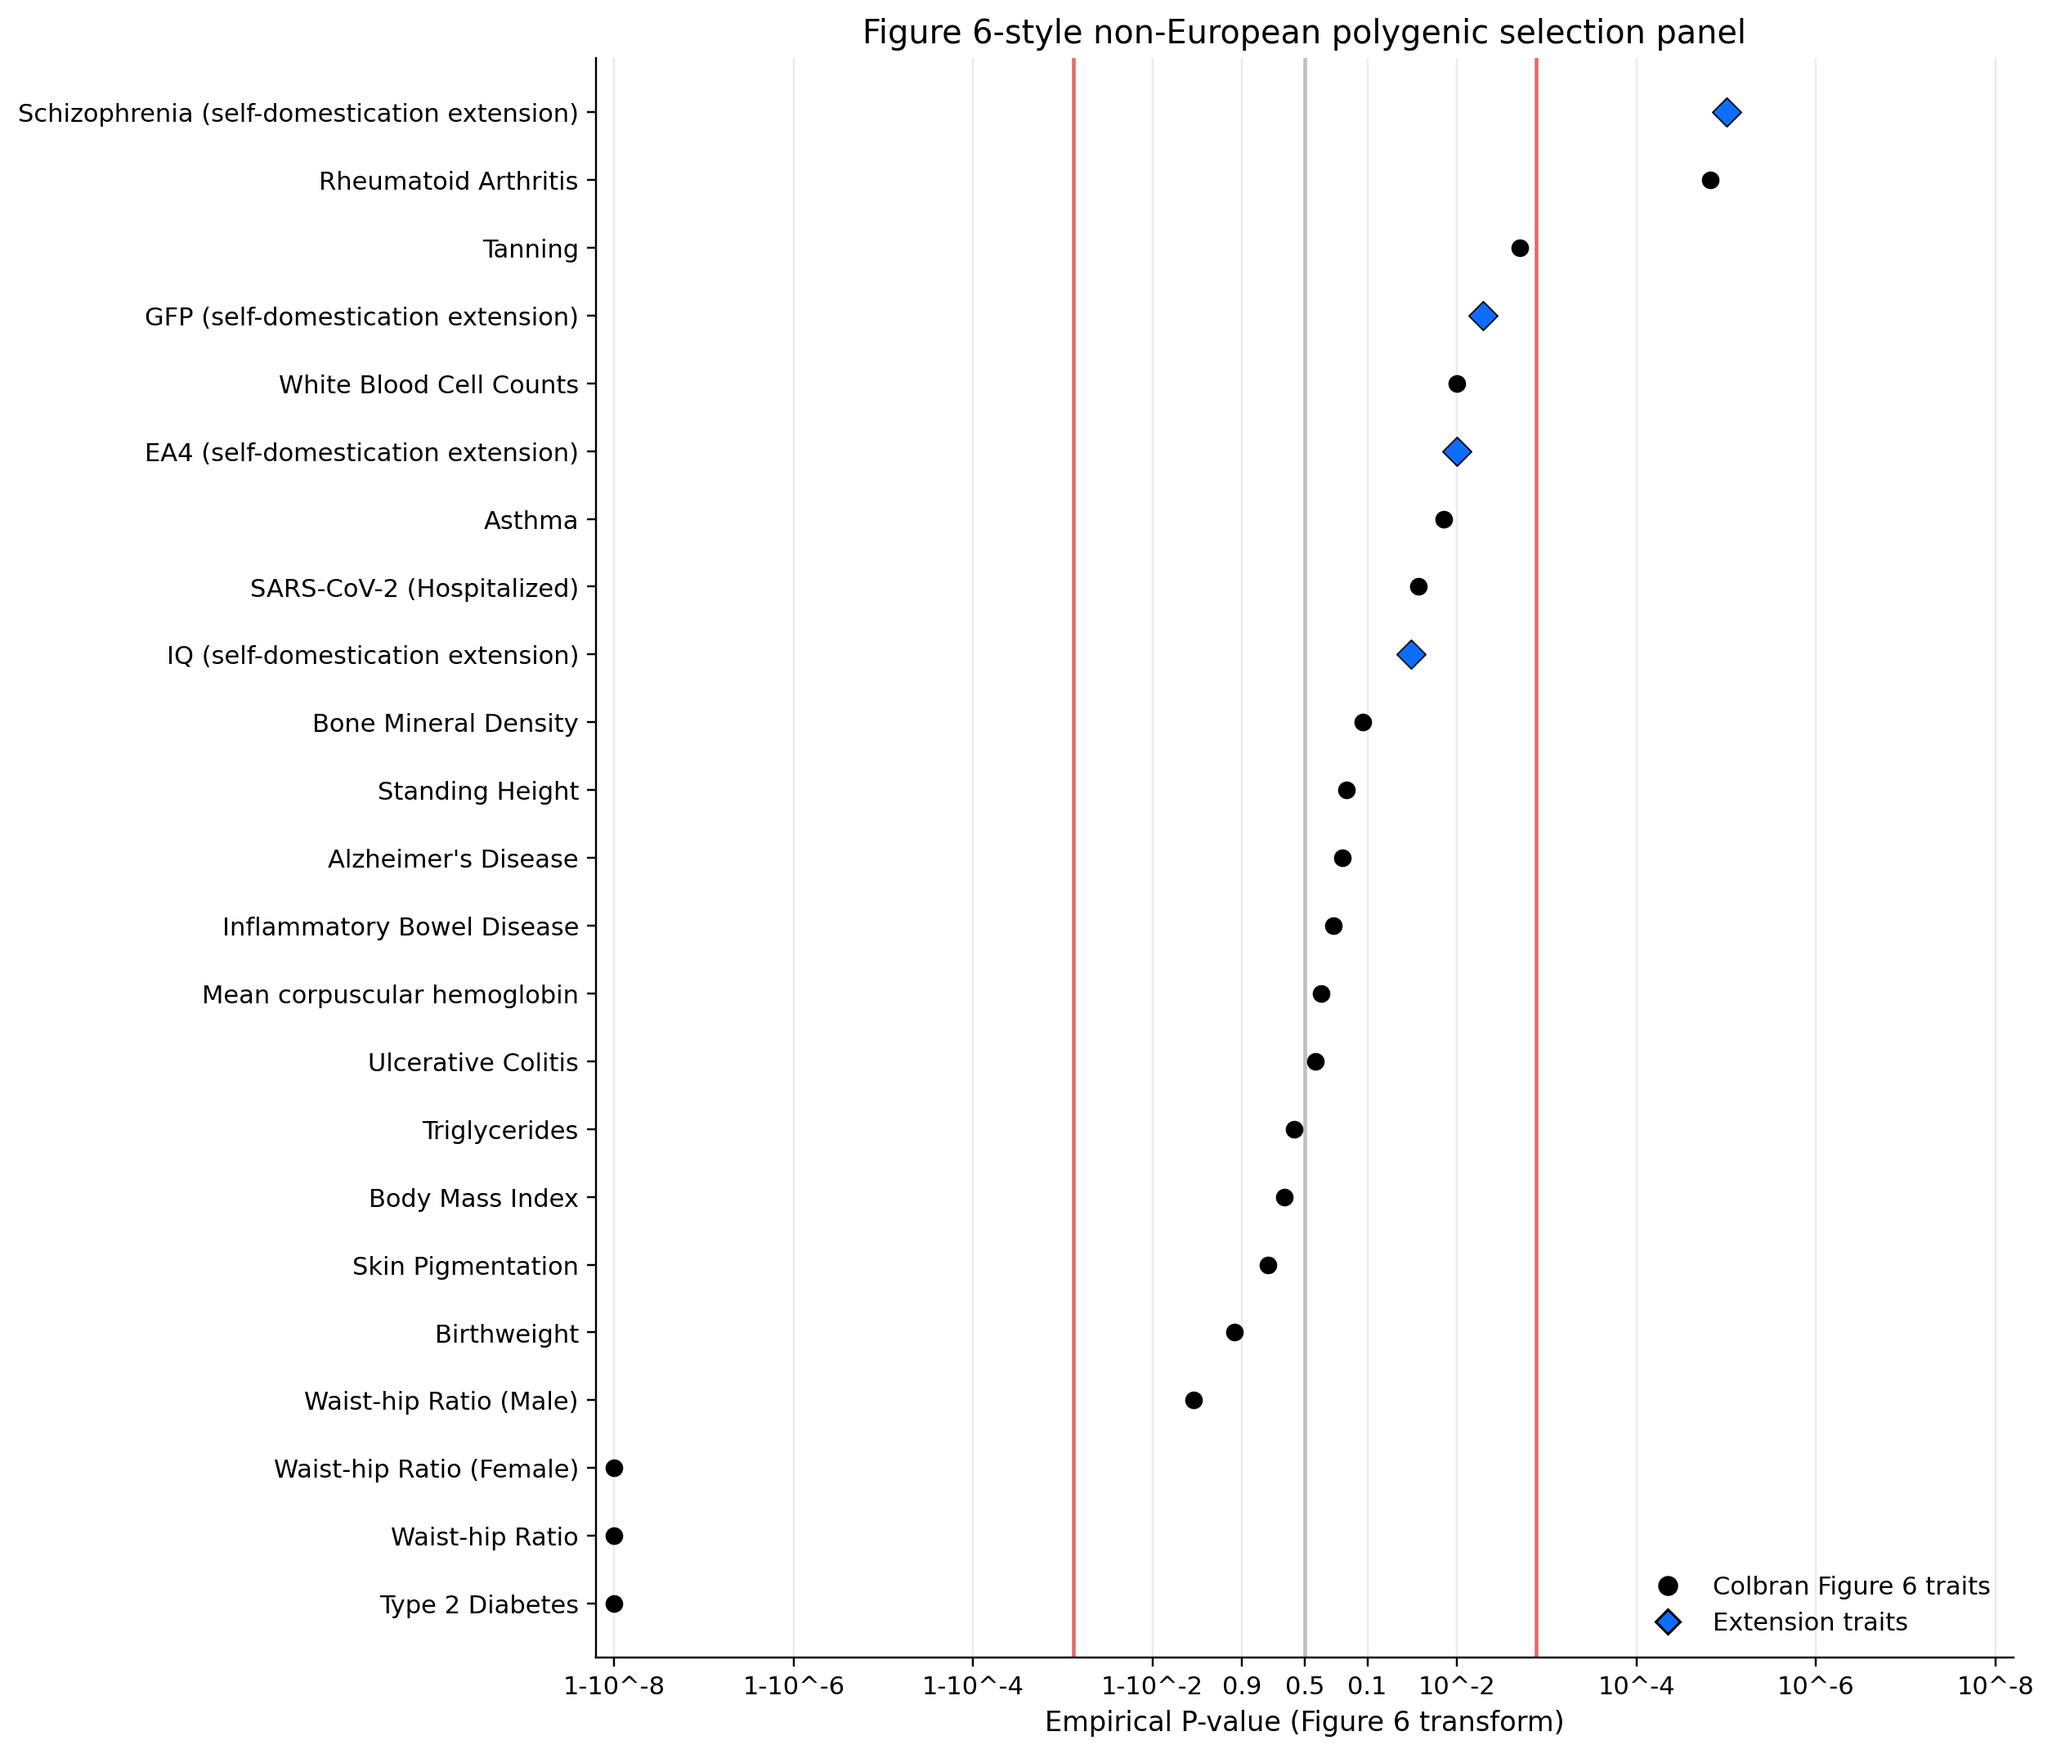
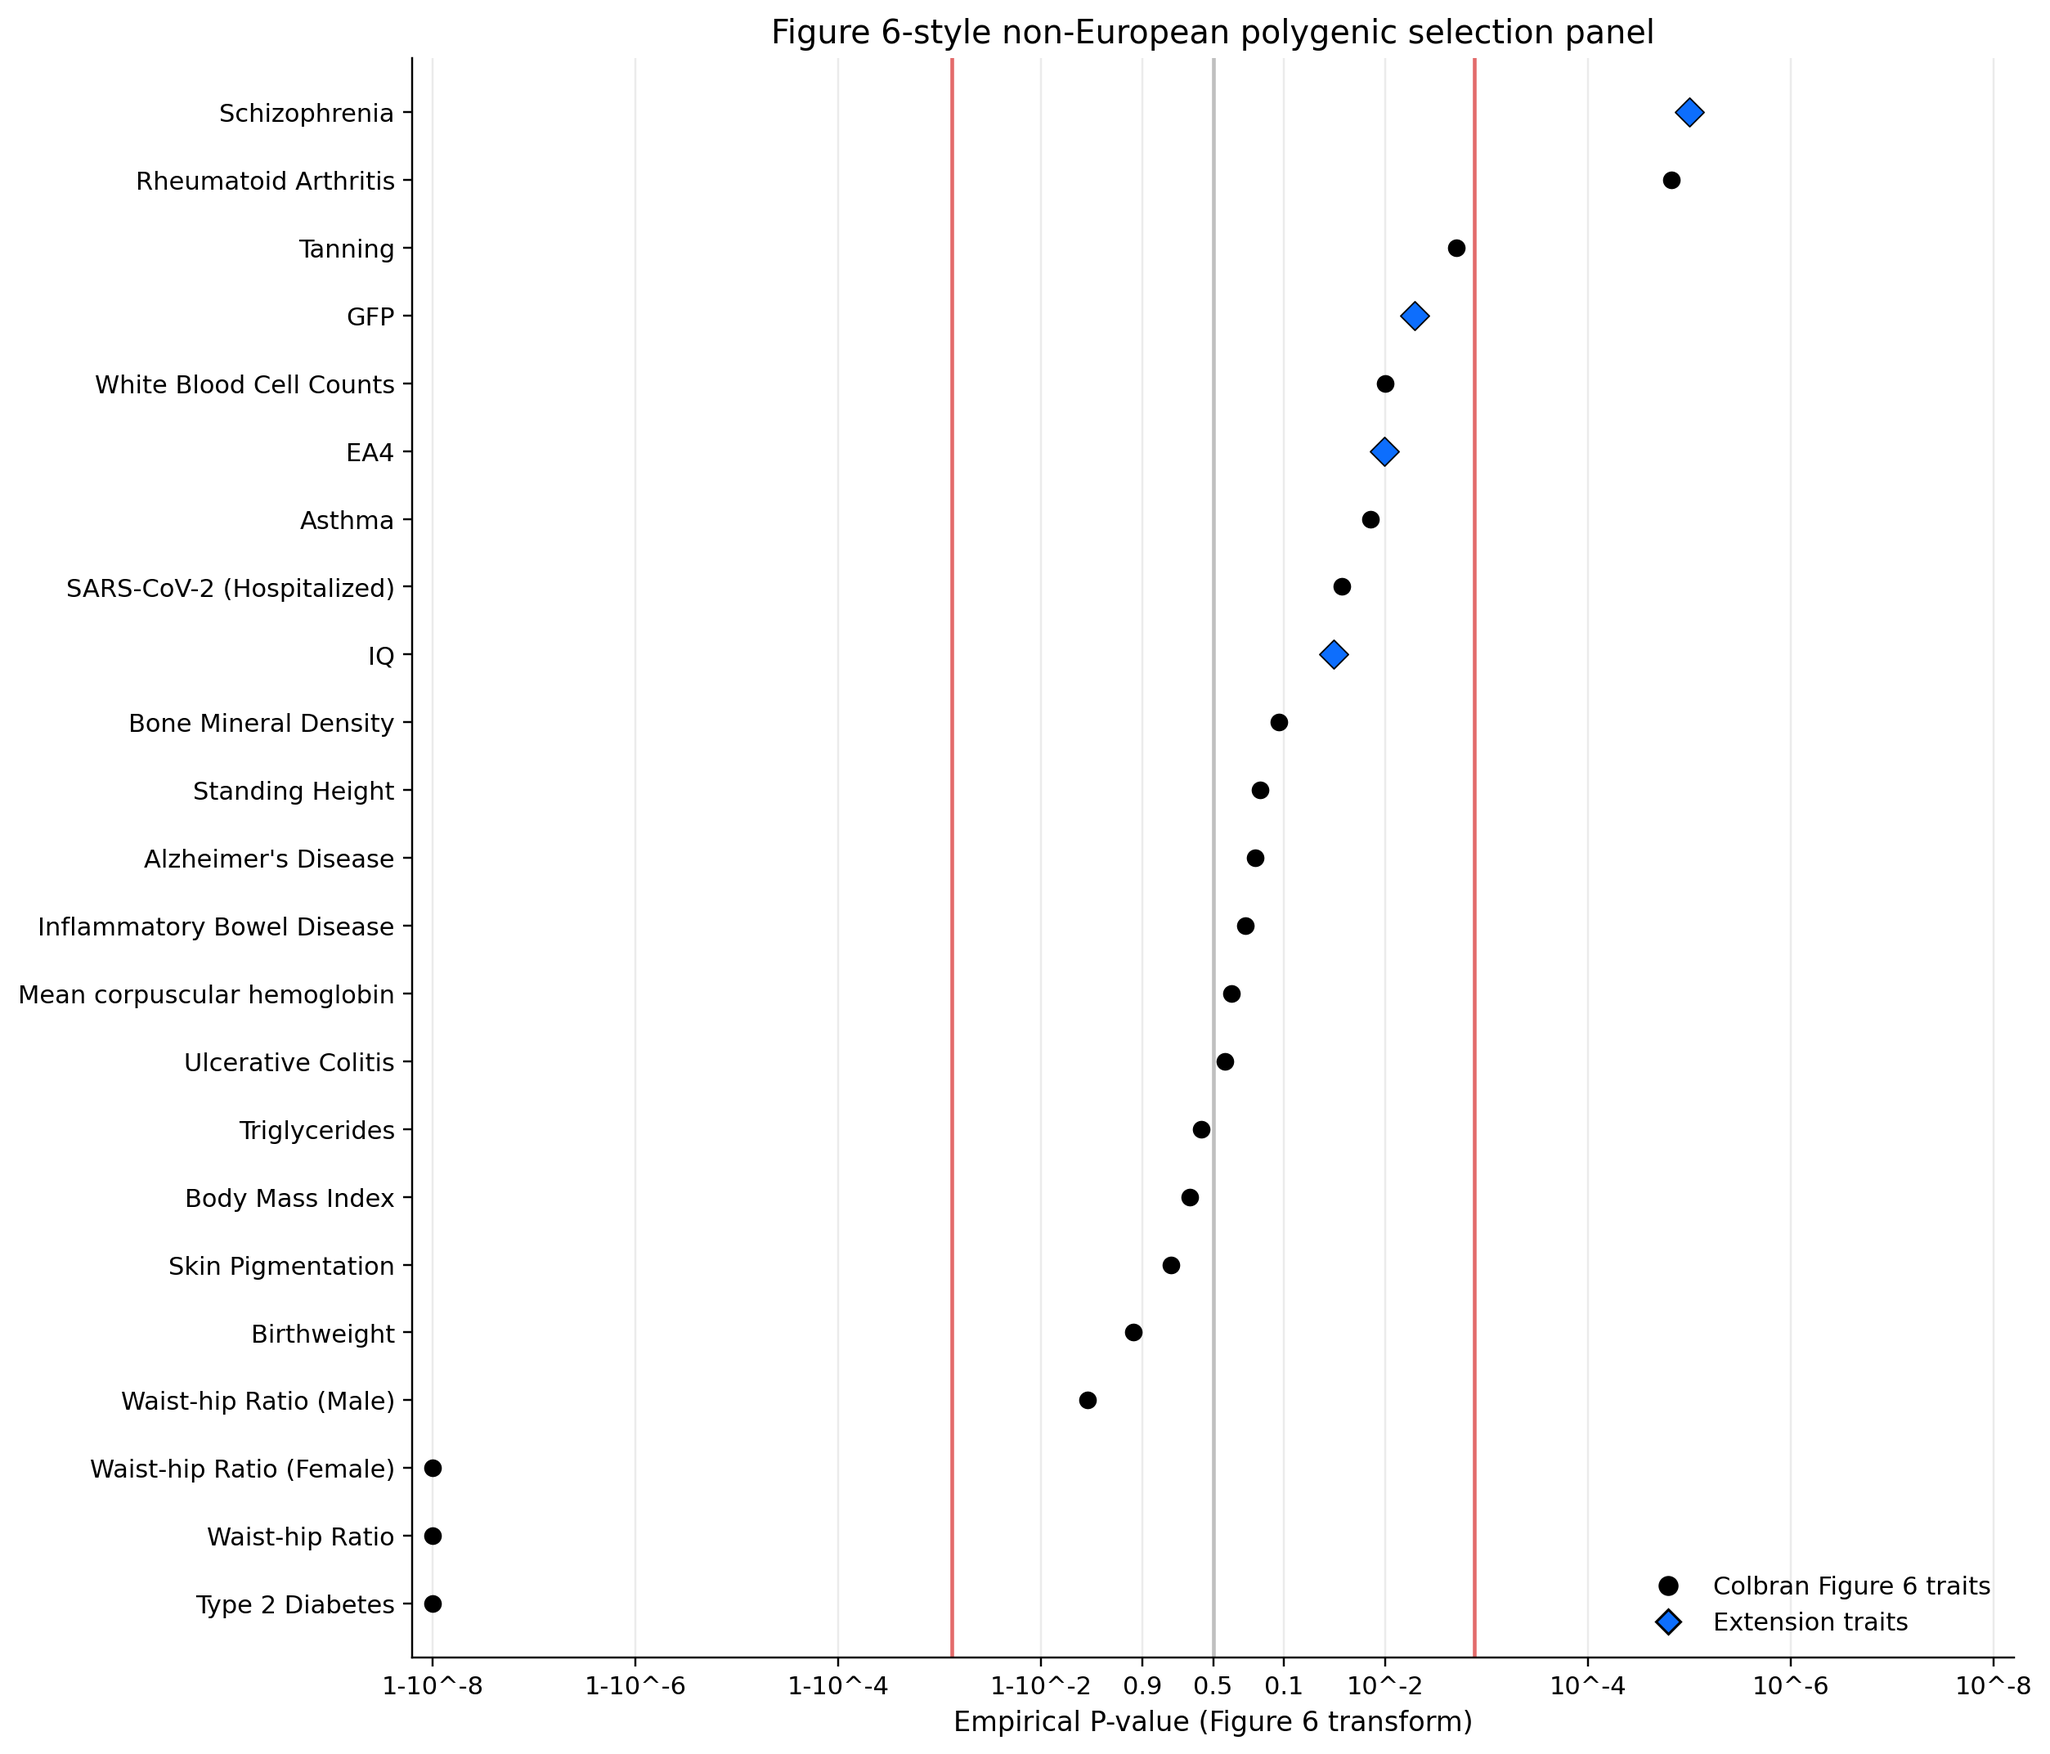
Shorten extension trait labels in figure
Remove the self-domestication parenthetical from the extension trait labels in the Figure 6-style comparison and regenerate the committed plot outputs so the README image uses the shorter names.

diff --git a/scripts/plot_figure6_comparison.py b/scripts/plot_figure6_comparison.py
@@ -26,10 +26,10 @@ DEFAULT_SUMMARIES = [
 ]
 
 OUR_LABELS = {
-    "gfp": "GFP (self-domestication extension)",
-    "schizophrenia": "Schizophrenia (self-domestication extension)",
-    "iq": "IQ (self-domestication extension)",
-    "ea4": "EA4 (self-domestication extension)",
+    "gfp": "GFP",
+    "schizophrenia": "Schizophrenia",
+    "iq": "IQ",
+    "ea4": "EA4",
 }
 
 
